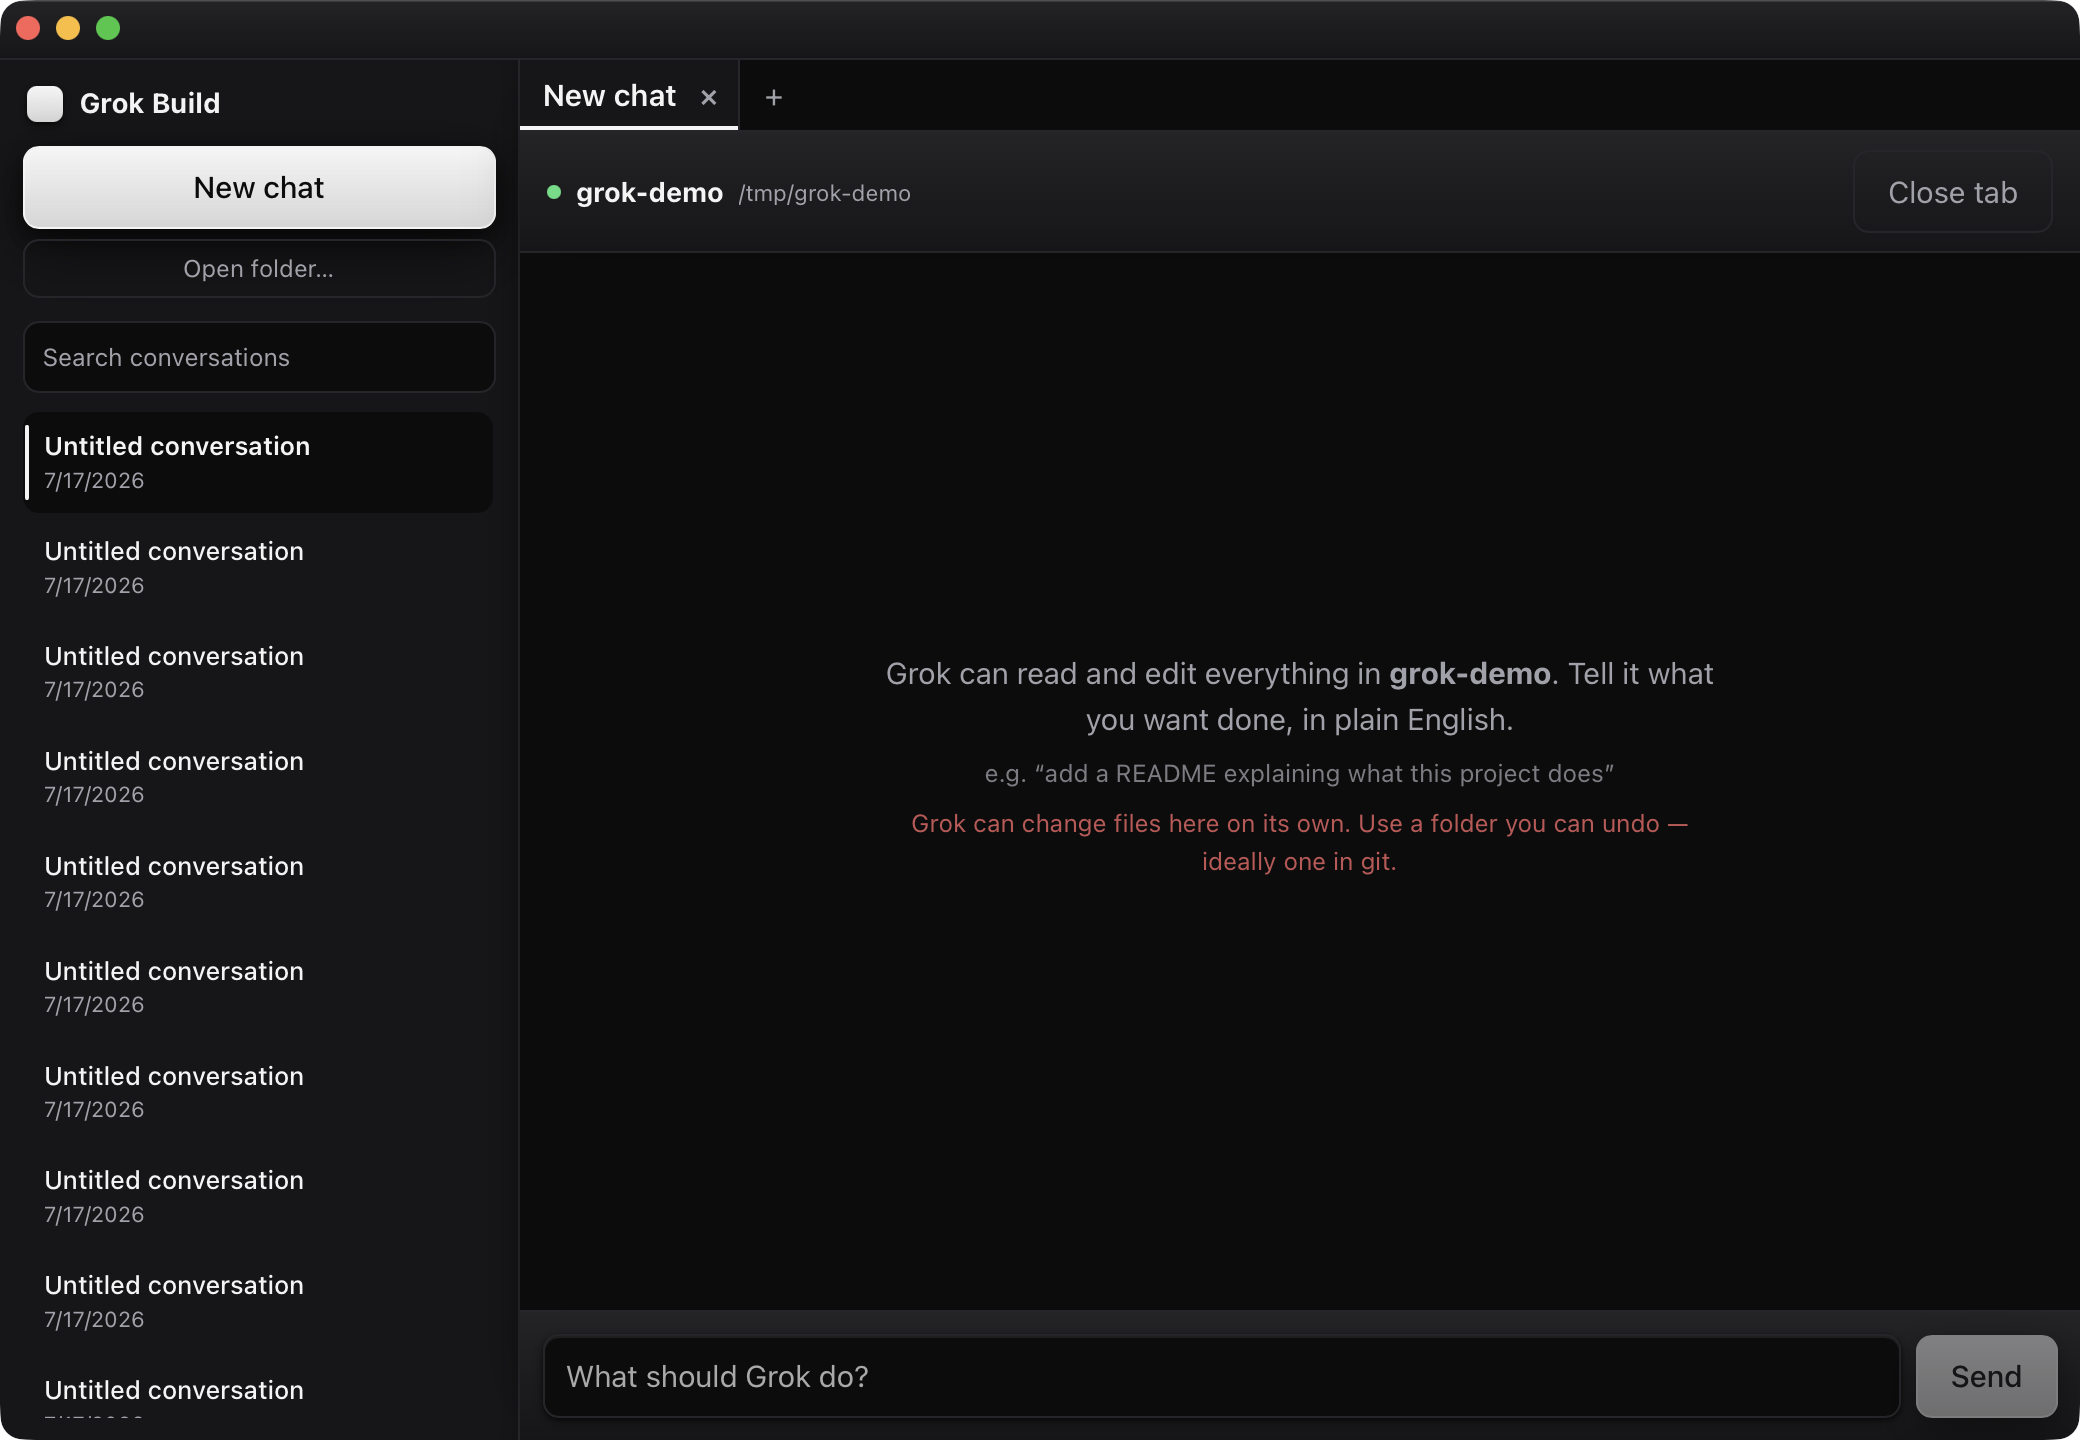
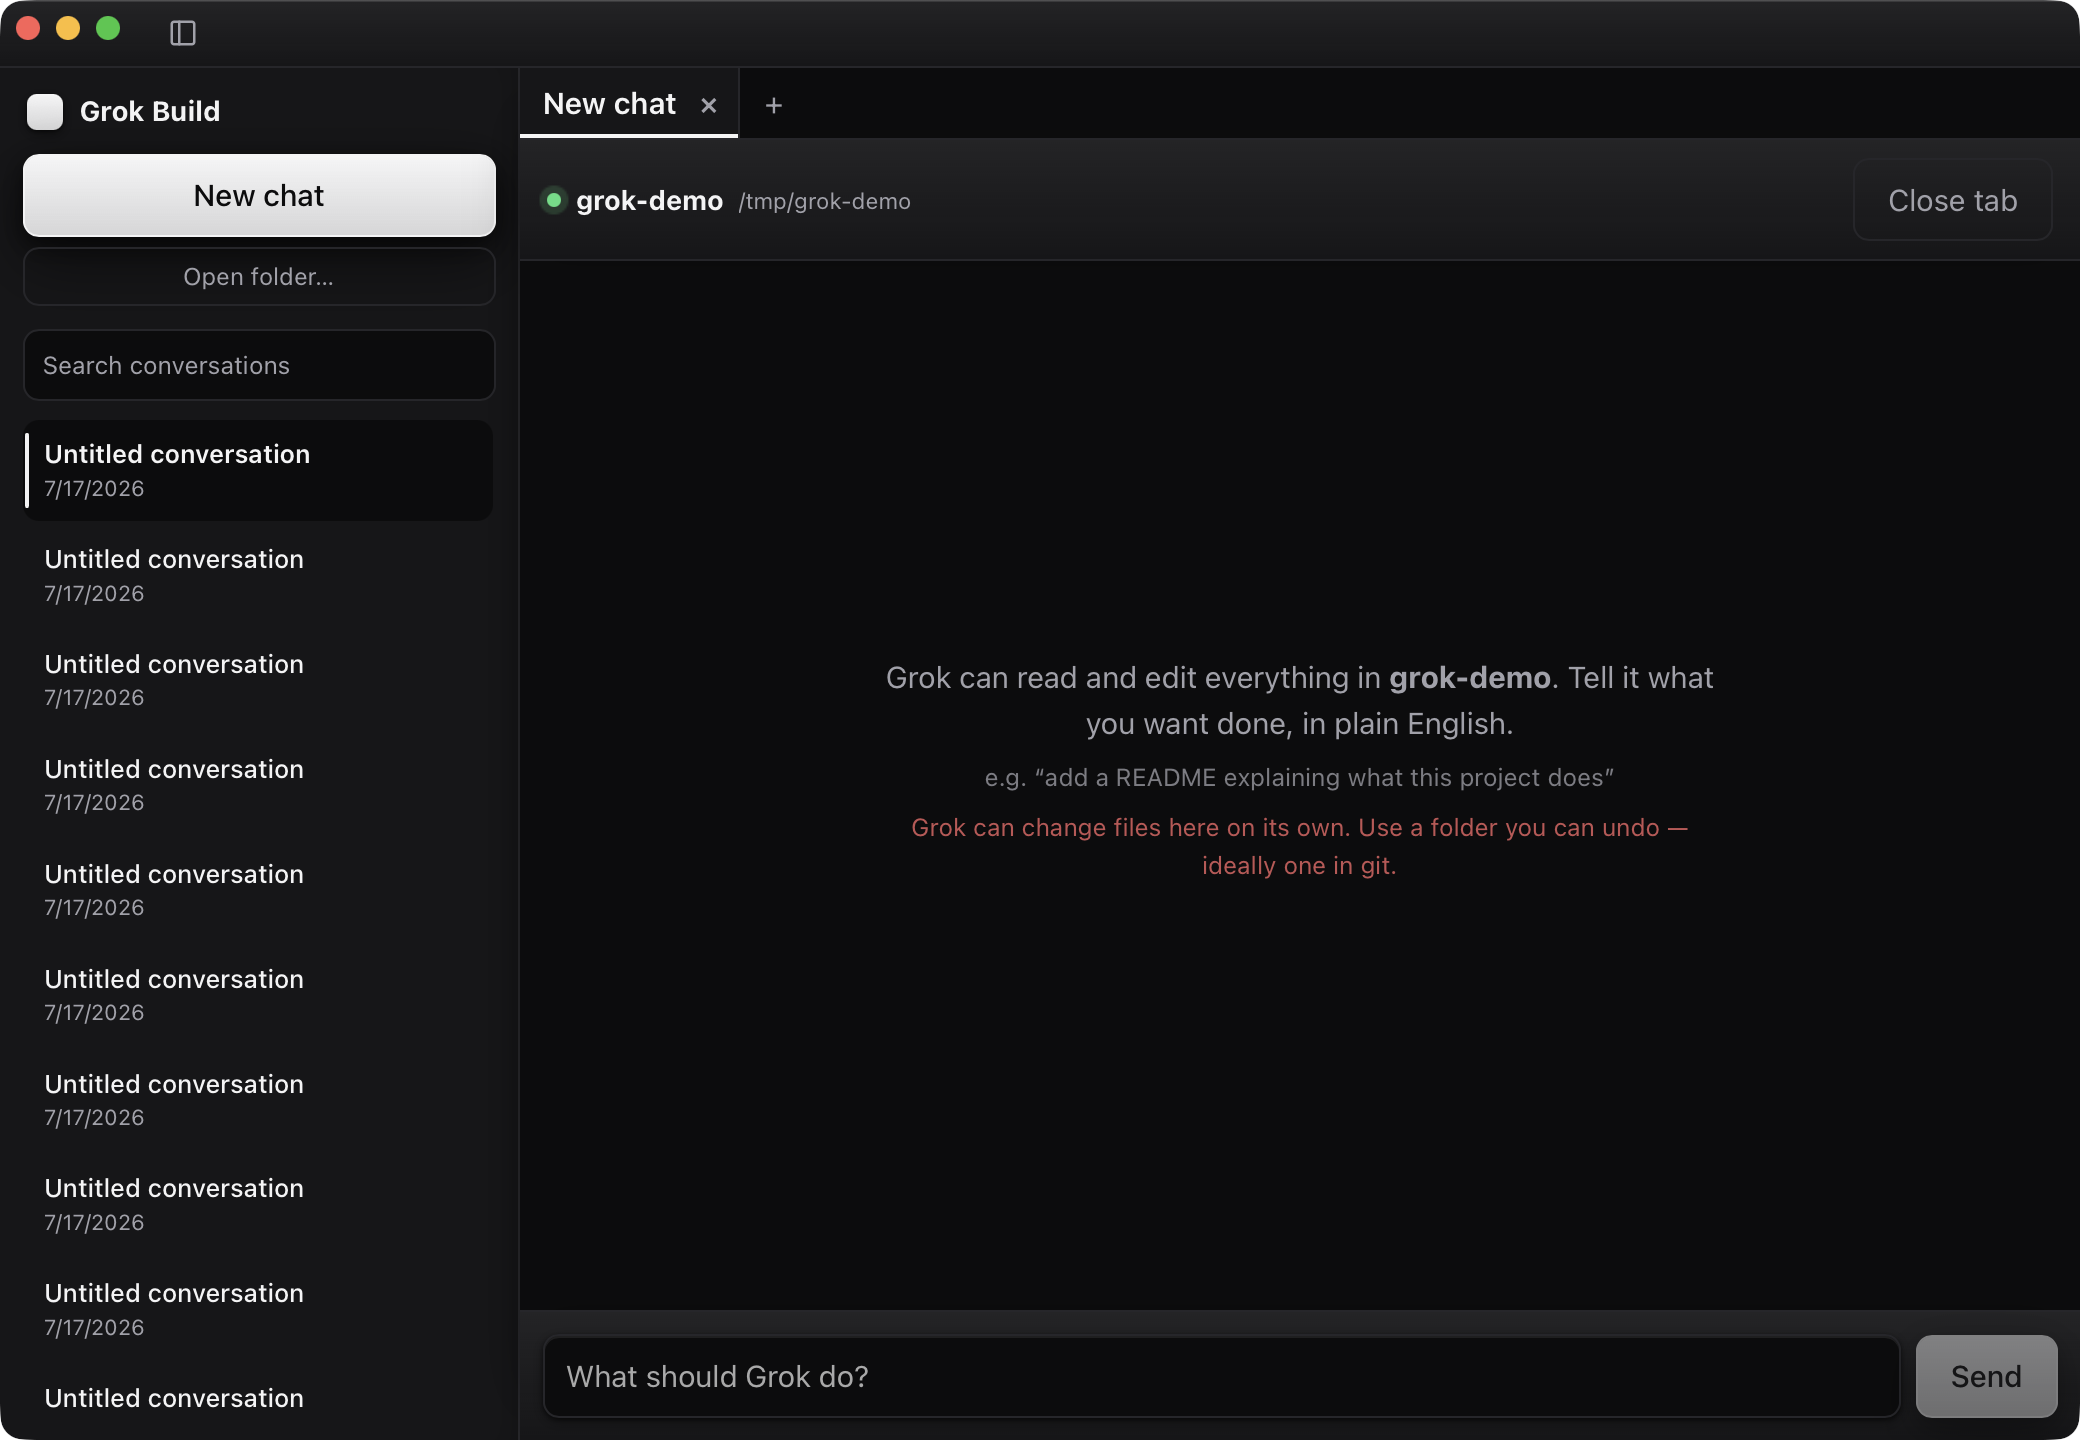
UI polish: collapsible sidebar, Cmd+B, richer hovers, Cmd+W fix
- Collapsible sidebar: a panel-toggle button in the overlay titlebar (left of
  the drag region so its clicks aren't eaten by drag) plus Cmd/Ctrl+B, state
  persisted to localStorage. The sidebar slides out (margin-left) and the
  content pane grows into the space; snaps instead of sliding under
  prefers-reduced-motion.
- Richer hover micro-interactions: sidebar rows half-raise their accent bar on
  hover, the new-tab "+" spins a quarter turn, the tab close "x" and the
  attachment-remove button swell, the toggle scales. All transform-only and
  neutralized under reduced-motion.
- Fix Cmd/Ctrl+W: it now closes the active TAB (even the last one, which drops
  you on the empty state) and only closes the WINDOW when nothing is open — a
  single Cmd+W no longer nukes the whole window out from under the last tab.

Build + 224 tests green. Updated the app screenshot to show the new titlebar.

diff --git a/src/App.css b/src/App.css
@@ -402,9 +402,46 @@ button.recent span {
    lights; it's the app's own chrome now that the OS titlebar is gone. */
 .titlebar {
   flex: none;
-  height: 30px;
+  display: flex;
+  align-items: center;
+  gap: 0.25rem;
+  height: 34px;
+  /* Clear the macOS traffic lights so the toggle doesn't sit under them. */
+  padding-left: 78px;
   background: var(--sheen), var(--panel);
   border-bottom: 1px solid var(--line);
+}
+/* The draggable part is only the empty remainder of the bar, so the toggle button stays a
+   real button. Stretches full height so there's a generous grab target. */
+.titlebar-drag {
+  flex: 1;
+  align-self: stretch;
+}
+.sidebar-toggle {
+  display: inline-flex;
+  align-items: center;
+  justify-content: center;
+  width: 26px;
+  height: 22px;
+  padding: 0;
+  border: 1px solid transparent;
+  border-radius: 6px;
+  color: var(--ink-soft);
+  background: transparent;
+  box-shadow: none;
+  transition: color var(--dur-fast) var(--ease-standard),
+    background var(--dur-fast) var(--ease-standard), transform var(--dur-fast) var(--ease-out);
+}
+.sidebar-toggle:hover:not(:disabled) {
+  color: var(--ink);
+  background: var(--bg);
+  transform: scale(1.1);
+}
+.sidebar-toggle:active:not(:disabled) {
+  transform: scale(0.94);
+}
+.sidebar-toggle svg {
+  display: block;
 }
 /* On the splash there's no column to sit in, so it floats over the top edge instead of
    pushing the centered content down. Transparent — the splash shows through. */
@@ -439,6 +476,12 @@ button.recent span {
   /* Recessed: the content pane reads as lifted above the sidebar because the sidebar's
      inner-right edge falls into shadow. Depth from layering, not just from card shadows. */
   box-shadow: inset -10px 0 16px -14px rgba(0, 0, 0, 0.35);
+  /* Collapsing slides it left off the edge (clipped by `.shell-body`'s overflow) and lets
+     the content pane grow into the space — a real hide, not just a width shrink. */
+  transition: margin-left var(--dur-slow) var(--ease-out);
+}
+.sidebar.collapsed {
+  margin-left: -261px;
 }
 .sidebar-head {
   display: flex;
@@ -560,10 +603,16 @@ button.side-row::before {
 }
 button.side-row:hover {
   background: var(--bg);
-  transform: translateX(2px);
+  transform: translateX(3px);
+}
+/* Hovering a row half-raises its accent bar — a hint of the state it would take if clicked.
+   Not on the active row, whose bar is already fully up. */
+button.side-row:not(.active):hover::before {
+  transform: scaleY(0.5);
+  background: var(--ink-soft);
 }
 button.side-row:active {
-  transform: translateX(2px) scale(0.996);
+  transform: translateX(3px) scale(0.996);
 }
 button.side-row.active {
   background: var(--bg);
@@ -810,6 +859,19 @@ button.tab-add {
   padding: 0.4rem 0.65rem;
   color: var(--ink-soft);
   font-size: 1rem;
+}
+button.tab-add,
+button.tab-close {
+  transition: color var(--dur-fast) var(--ease-standard),
+    background var(--dur-fast) var(--ease-standard), transform var(--dur) var(--ease-out);
+}
+/* The little delights: the new-tab plus turns a quarter as you reach for it, and a tab's
+   close cross swells so it's an easier, more deliberate target. */
+button.tab-add:hover {
+  transform: rotate(90deg) scale(1.08);
+}
+button.tab-close:hover {
+  transform: scale(1.2);
 }
 .tab-auth {
   gap: 0.75rem;
@@ -1428,8 +1490,17 @@ button.tab-add {
   .stream > .plan:hover,
   button.primary:hover:not(:disabled),
   button.recent:hover,
-  button.side-row:hover {
+  button.side-row:hover,
+  button.tab-add:hover,
+  button.tab-close:hover,
+  button.sidebar-toggle:hover:not(:disabled),
+  .attachment-chip button:hover {
     transform: none;
+  }
+  /* The sidebar still hides on toggle — that's function, not decoration — it just snaps
+     rather than sliding. */
+  .sidebar {
+    transition: none;
   }
 }
 
@@ -1530,10 +1601,13 @@ button.tab-add {
   border-radius: 50%;
   color: var(--ink-soft);
   line-height: 1;
+  transition: color var(--dur-fast) var(--ease-standard),
+    background var(--dur-fast) var(--ease-standard), transform var(--dur-fast) var(--ease-out);
 }
 .attachment-chip button:hover {
   background: var(--bg);
   color: var(--ink);
+  transform: scale(1.15);
 }
 .composer textarea {
   min-width: 0;

diff --git a/src/App.tsx b/src/App.tsx
@@ -409,6 +409,15 @@ export default function App() {
   const [tabs, setTabs] = useState<Tab[]>([]);
   const [activeTabId, setActiveTabId] = useState<string | null>(null);
   const [dragging, setDragging] = useState(false);
+  // Whether the conversation sidebar is showing. Persisted so a window that was opened with
+  // it collapsed comes back collapsed — the choice is the user's, not reset every launch.
+  const [sidebarOpen, setSidebarOpen] = useState(() => {
+    try {
+      return localStorage.getItem("sidebarOpen") !== "false";
+    } catch {
+      return true;
+    }
+  });
   const [notice, setNotice] = useState<string | null>(null);
   const [recents, setRecents] = useState<Project[]>([]);
   /// An `open_project` is in flight. Decoration for the launcher's wait, nothing
@@ -541,6 +550,14 @@ export default function App() {
   useEffect(() => {
     scrollRef.current?.scrollTo({ top: scrollRef.current.scrollHeight, behavior: "smooth" });
   }, [activeTab?.items, activeTab?.busy]);
+
+  useEffect(() => {
+    try {
+      localStorage.setItem("sidebarOpen", String(sidebarOpen));
+    } catch {
+      // A private-mode window with no storage still works; it just won't remember the choice.
+    }
+  }, [sidebarOpen]);
 
   // Ask Rust what this window is: is grok installed, and does this window already
   // own a project? A window built by `open_project` comes up straight into a new
@@ -720,23 +737,29 @@ export default function App() {
     };
   }, [activeTab?.cwd, activeTab?.id, stage, updateTab]);
 
-  // Cmd/Ctrl+W closes the active tab, browser-style. When it takes the window's last tab
-  // with it — or when there's no tab to close (a launcher) — there's nothing left in the
-  // window worth keeping open, so the window closes too. That's what Cmd+W does everywhere
-  // else; leaving an empty "nothing open" shell behind would be the surprising outcome.
+  // Cmd/Ctrl+W closes the active tab. It only closes the *window* once there is no tab left
+  // to close — so the last tab's close drops you on the empty "nothing open" state, and a
+  // second Cmd+W from there closes the window. Closing the window out from under the last
+  // tab in one press was the surprising outcome; a tab close should stay a tab close.
   useEffect(() => {
     const onKeyDown = (event: KeyboardEvent) => {
       if (!(event.metaKey || event.ctrlKey) || event.altKey || event.shiftKey) return;
+      // Cmd/Ctrl+B toggles the sidebar — the editor-standard shortcut, so it's where the
+      // hand already reaches for it.
+      if (event.key === "b" || event.key === "B") {
+        event.preventDefault();
+        setSidebarOpen((open) => !open);
+        return;
+      }
       if (event.key !== "w" && event.key !== "W") return;
       event.preventDefault();
       const openTab = activeTabId;
-      if (openTab && tabsRef.current.length > 1) {
+      if (openTab) {
+        // Even if it's the last one: closing it leaves the window on its empty state, not gone.
         closeTab(openTab);
         return;
       }
-      // Last tab, or nothing open: close the window itself. `cancel` best-effort stops this
-      // window's grok before the close event races the teardown.
-      if (openTab) void cancelRun(openTab).catch(() => {});
+      // Nothing open (the empty state, or a launcher) — now Cmd+W closes the window.
       void getCurrentWebviewWindow().close().catch(() => {});
     };
     window.addEventListener("keydown", onKeyDown);
@@ -1436,15 +1459,39 @@ export default function App() {
 
   return (
     <div className="shell">
-      {/* The window's own drag handle. With `titleBarStyle: Overlay` the OS titlebar is gone
-          and content reaches the top edge, so this thin strip is what you grab to move the
-          window — and it's left-padded to clear the traffic lights. Deliberately empty: the
-          Plan warned that making the button-dense tab strip a drag surface is where dragging
-          breaks, so the drag region is its own bar and nothing interactive lives on it. */}
-      <div className="titlebar" data-tauri-drag-region />
+      {/* The window's own top bar. With `titleBarStyle: Overlay` the OS titlebar is gone and
+          content reaches the top edge, so this strip carries the sidebar toggle at its left
+          (past the traffic lights) and is otherwise a drag handle. The drag region is the
+          empty spacer, NOT the whole bar: the toggle is a real button and mustn't be a drag
+          surface, or its clicks get eaten by the drag handler. */}
+      <div className="titlebar">
+        <button
+          className="sidebar-toggle"
+          onClick={() => setSidebarOpen((open) => !open)}
+          title={sidebarOpen ? "Hide sidebar (⌘B)" : "Show sidebar (⌘B)"}
+          aria-label="Toggle sidebar"
+          aria-pressed={sidebarOpen}
+        >
+          <svg
+            width="15"
+            height="15"
+            viewBox="0 0 24 24"
+            fill="none"
+            stroke="currentColor"
+            strokeWidth="2"
+            strokeLinecap="round"
+            strokeLinejoin="round"
+            aria-hidden="true"
+          >
+            <rect x="3" y="3" width="18" height="18" rx="2" />
+            <line x1="9" y1="3" x2="9" y2="21" />
+          </svg>
+        </button>
+        <div className="titlebar-drag" data-tauri-drag-region />
+      </div>
       {banner}
       <div className="shell-body">
-        <aside className="sidebar">
+        <aside className={`sidebar${sidebarOpen ? "" : " collapsed"}`}>
           <div className="sidebar-head">
             <div className="sidebar-brand">
               <span className="mark" />